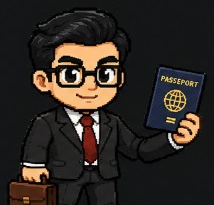
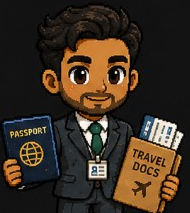
Update agent mascots to new 4-character sprite sheet.
Replace PNG artwork and align roles and taglines with visa, CV, application, and travel doc personas.

diff --git a/apps/web/src/lib/agents/mascots.ts b/apps/web/src/lib/agents/mascots.ts
@@ -16,8 +16,8 @@ export const AGENTS: Record<AgentId, AgentMeta> = {
     id: "regulation",
     name: { fr: "Mira", en: "Mira" },
     tagline: {
-      fr: "Avocate — experte IRCC & réglementation",
-      en: "Lawyer — IRCC & regulations expert",
+      fr: "Conseillère visa — dossiers & réglementation IRCC",
+      en: "Visa advisor — files & IRCC regulations",
     },
     gradient: "from-violet-500 to-indigo-600",
     glow: "shadow-violet-500/25",
@@ -29,8 +29,8 @@ export const AGENTS: Record<AgentId, AgentMeta> = {
     id: "cv",
     name: { fr: "Rio", en: "Rio" },
     tagline: {
-      fr: "Coach CV — maître du score ATS",
-      en: "CV coach — ATS scoring expert",
+      fr: "Coach CV — optimisation ATS & profil numérique",
+      en: "CV coach — ATS optimization & digital profile",
     },
     gradient: "from-emerald-500 to-teal-600",
     glow: "shadow-emerald-500/25",
@@ -42,8 +42,8 @@ export const AGENTS: Record<AgentId, AgentMeta> = {
     id: "job",
     name: { fr: "Jade", en: "Jade" },
     tagline: {
-      fr: "Conseiller emploi — candidatures & lettres",
-      en: "Career advisor — jobs & cover letters",
+      fr: "Conseiller emploi — candidatures & documents voyage",
+      en: "Career advisor — applications & travel docs",
     },
     gradient: "from-amber-500 to-orange-600",
     glow: "shadow-amber-500/25",
@@ -55,8 +55,8 @@ export const AGENTS: Record<AgentId, AgentMeta> = {
     id: "procedure",
     name: { fr: "Atlas", en: "Atlas" },
     tagline: {
-      fr: "Guide immigration — parcours & score CRS",
-      en: "Immigration guide — pathway & CRS score",
+      fr: "Conseillère dossier — parcours & score CRS",
+      en: "Application guide — pathway & CRS score",
     },
     gradient: "from-sky-500 to-blue-600",
     glow: "shadow-sky-500/25",

diff --git a/apps/web/src/lib/agents/mascot-assets.ts b/apps/web/src/lib/agents/mascot-assets.ts
@@ -9,14 +9,14 @@ export const MASCOT_IMAGES: Record<AgentId, string> = {
 
 export const MASCOT_BG: Record<AgentId, string> = {
   regulation: "#1a1a1a",
-  cv: "#ffffff",
+  cv: "#1a1a1a",
   job: "#1a1a1a",
   procedure: "#1a1a1a",
 };
 
 export const MASCOT_ROLES: Record<AgentId, { fr: string; en: string }> = {
-  regulation: { fr: "Avocate", en: "Lawyer" },
+  regulation: { fr: "Conseillère visa", en: "Visa Advisor" },
   cv: { fr: "Coach CV", en: "CV Coach" },
   job: { fr: "Conseiller emploi", en: "Career Advisor" },
-  procedure: { fr: "Guide immigration", en: "Immigration Guide" },
+  procedure: { fr: "Conseillère dossier", en: "Application Guide" },
 };
